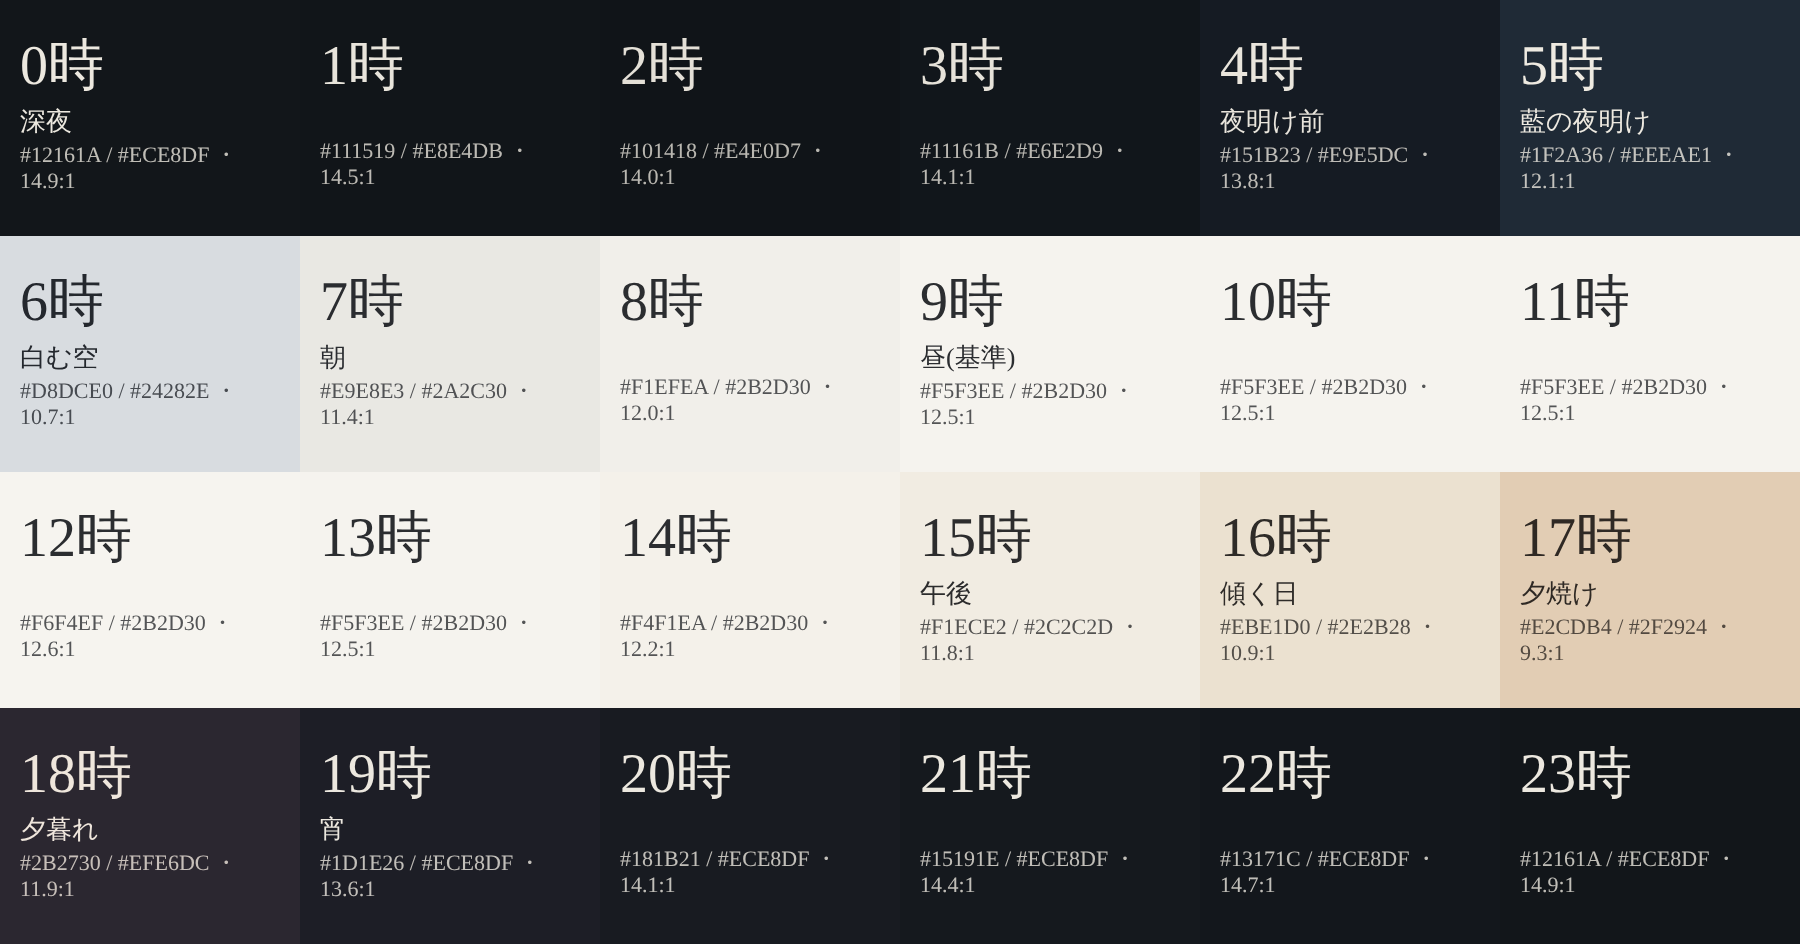
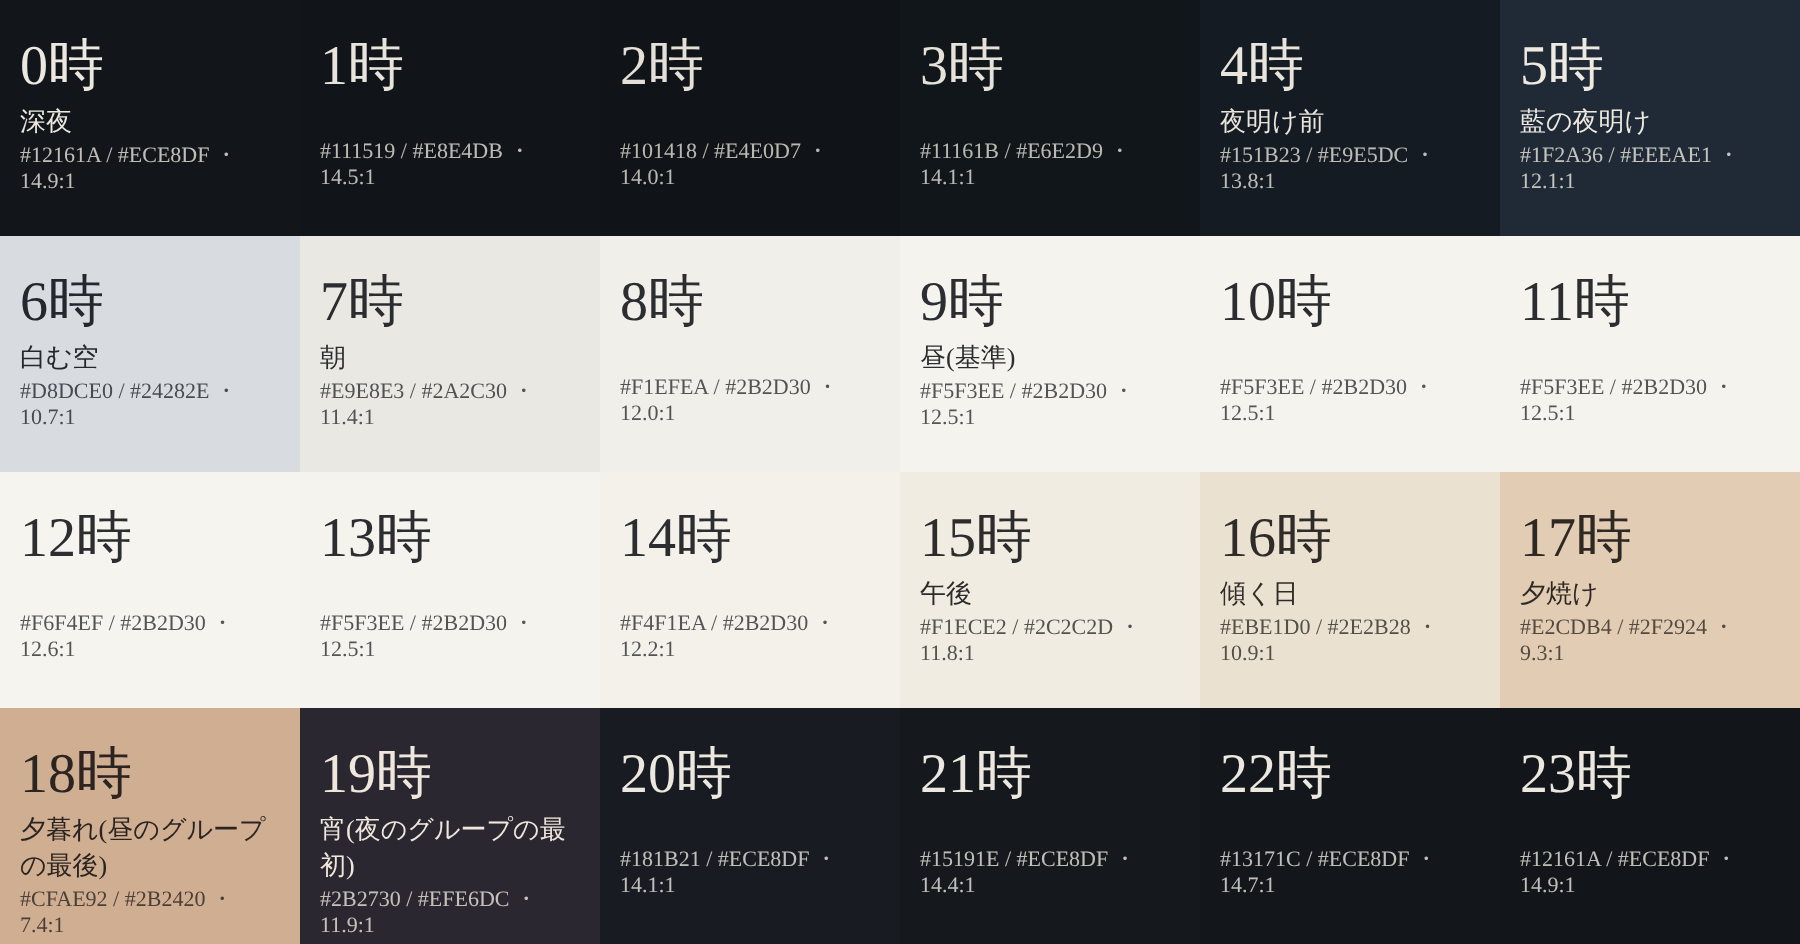
Still Here: 18時を昼のグループ(明るい夕暮れ色)に入れる
Claude-Session: https://claude.ai/code/session_01NVsEU5YZ5BtdUQZHyMLdES

Changed region(s): [[0.0, 0.7373, 0.3111, 1.0]]

diff --git a/still-here/app.js b/still-here/app.js
@@ -21,7 +21,7 @@
 
   // ---- 色(0〜23時の固定表) ---------------------------------------------
   // 基準は niisan.tv の Traveler Colors(昼 #F5F3EE / #2B2D30、夜 #12161A / #ECE8DF)。
-  // 夜明け(5〜7時)と夕暮れ(16〜18時)をつなぐ色を足している。どの行も文字と背景の差が十分にあること。
+  // 夜明け(5〜7時)と夕暮れ(16〜18時)をつなぐ色を足している。6〜18時が明るい「昼のグループ」、19〜5時が暗い「夜のグループ」。どの行も文字と背景の差が十分にあること。
   var COLORS = [
     ['#12161A', '#ECE8DF'], //  0 深夜
     ['#111519', '#E8E4DB'], //  1
@@ -41,8 +41,8 @@
     ['#F1ECE2', '#2C2C2D'], // 15 午後
     ['#EBE1D0', '#2E2B28'], // 16 傾く日
     ['#E2CDB4', '#2F2924'], // 17 夕焼け
-    ['#2B2730', '#EFE6DC'], // 18 夕暮れ
-    ['#1D1E26', '#ECE8DF'], // 19 宵
+    ['#CFAE92', '#2B2420'], // 18 夕暮れ(昼のグループの最後)
+    ['#2B2730', '#EFE6DC'], // 19 宵(夜のグループの最初)
     ['#181B21', '#ECE8DF'], // 20
     ['#15191E', '#ECE8DF'], // 21
     ['#13171C', '#ECE8DF'], // 22

diff --git a/still-here/sw.js b/still-here/sw.js
@@ -13,7 +13,8 @@ const CACHE_PREFIX = 'uniiqcode-still-here-';
 // v5→v6(2026年11月): 横向きの文字を 125% にした。
 // 同じ版で: 雨予報の文を、かたまりの切れ目でだけ折り返すようにした。
 // v6→v7(2026年11月): 横向きで、ラジオ(状態の1行を含む)の下端を日の出・日の入りの下端にそろえた。
-const CACHE_NAME = CACHE_PREFIX + 'v7';
+// v7→v8(2026年11月): 18時を昼のグループ(明るい色)に入れた。
+const CACHE_NAME = CACHE_PREFIX + 'v8';
 
 const APP_SHELL = [
   './', 'index.html', 'app.js', 'manifest.json',
